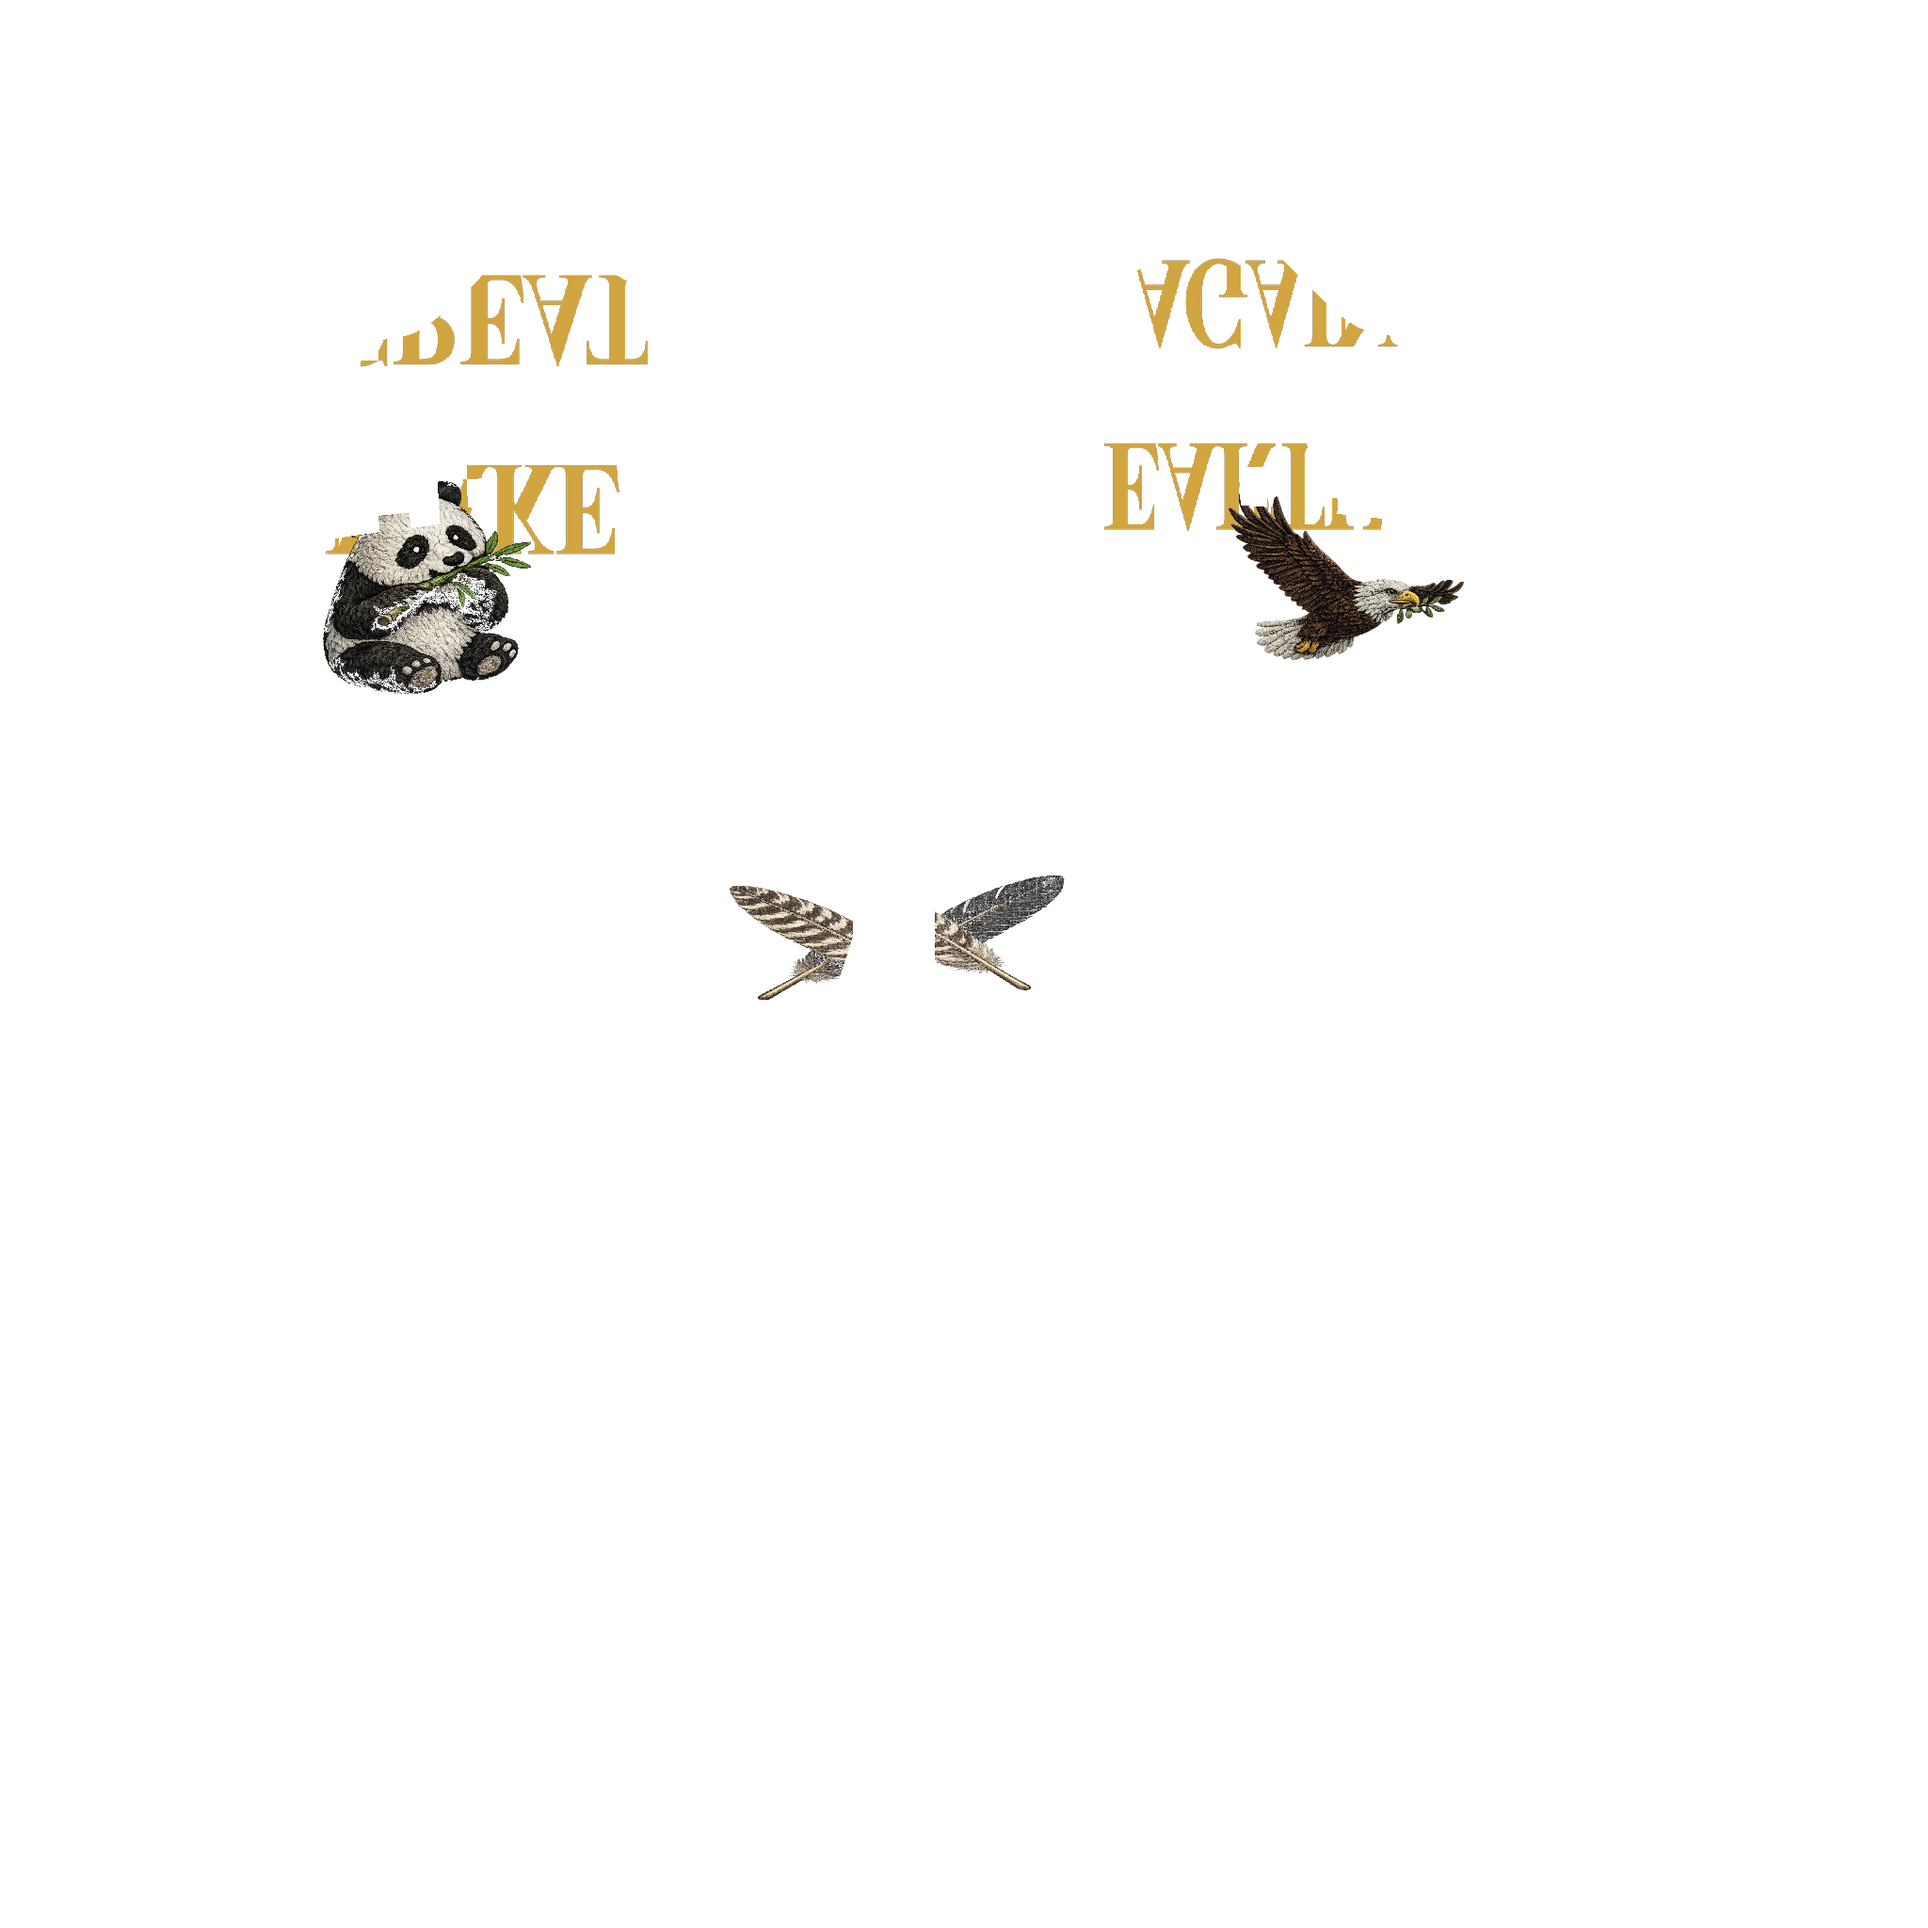
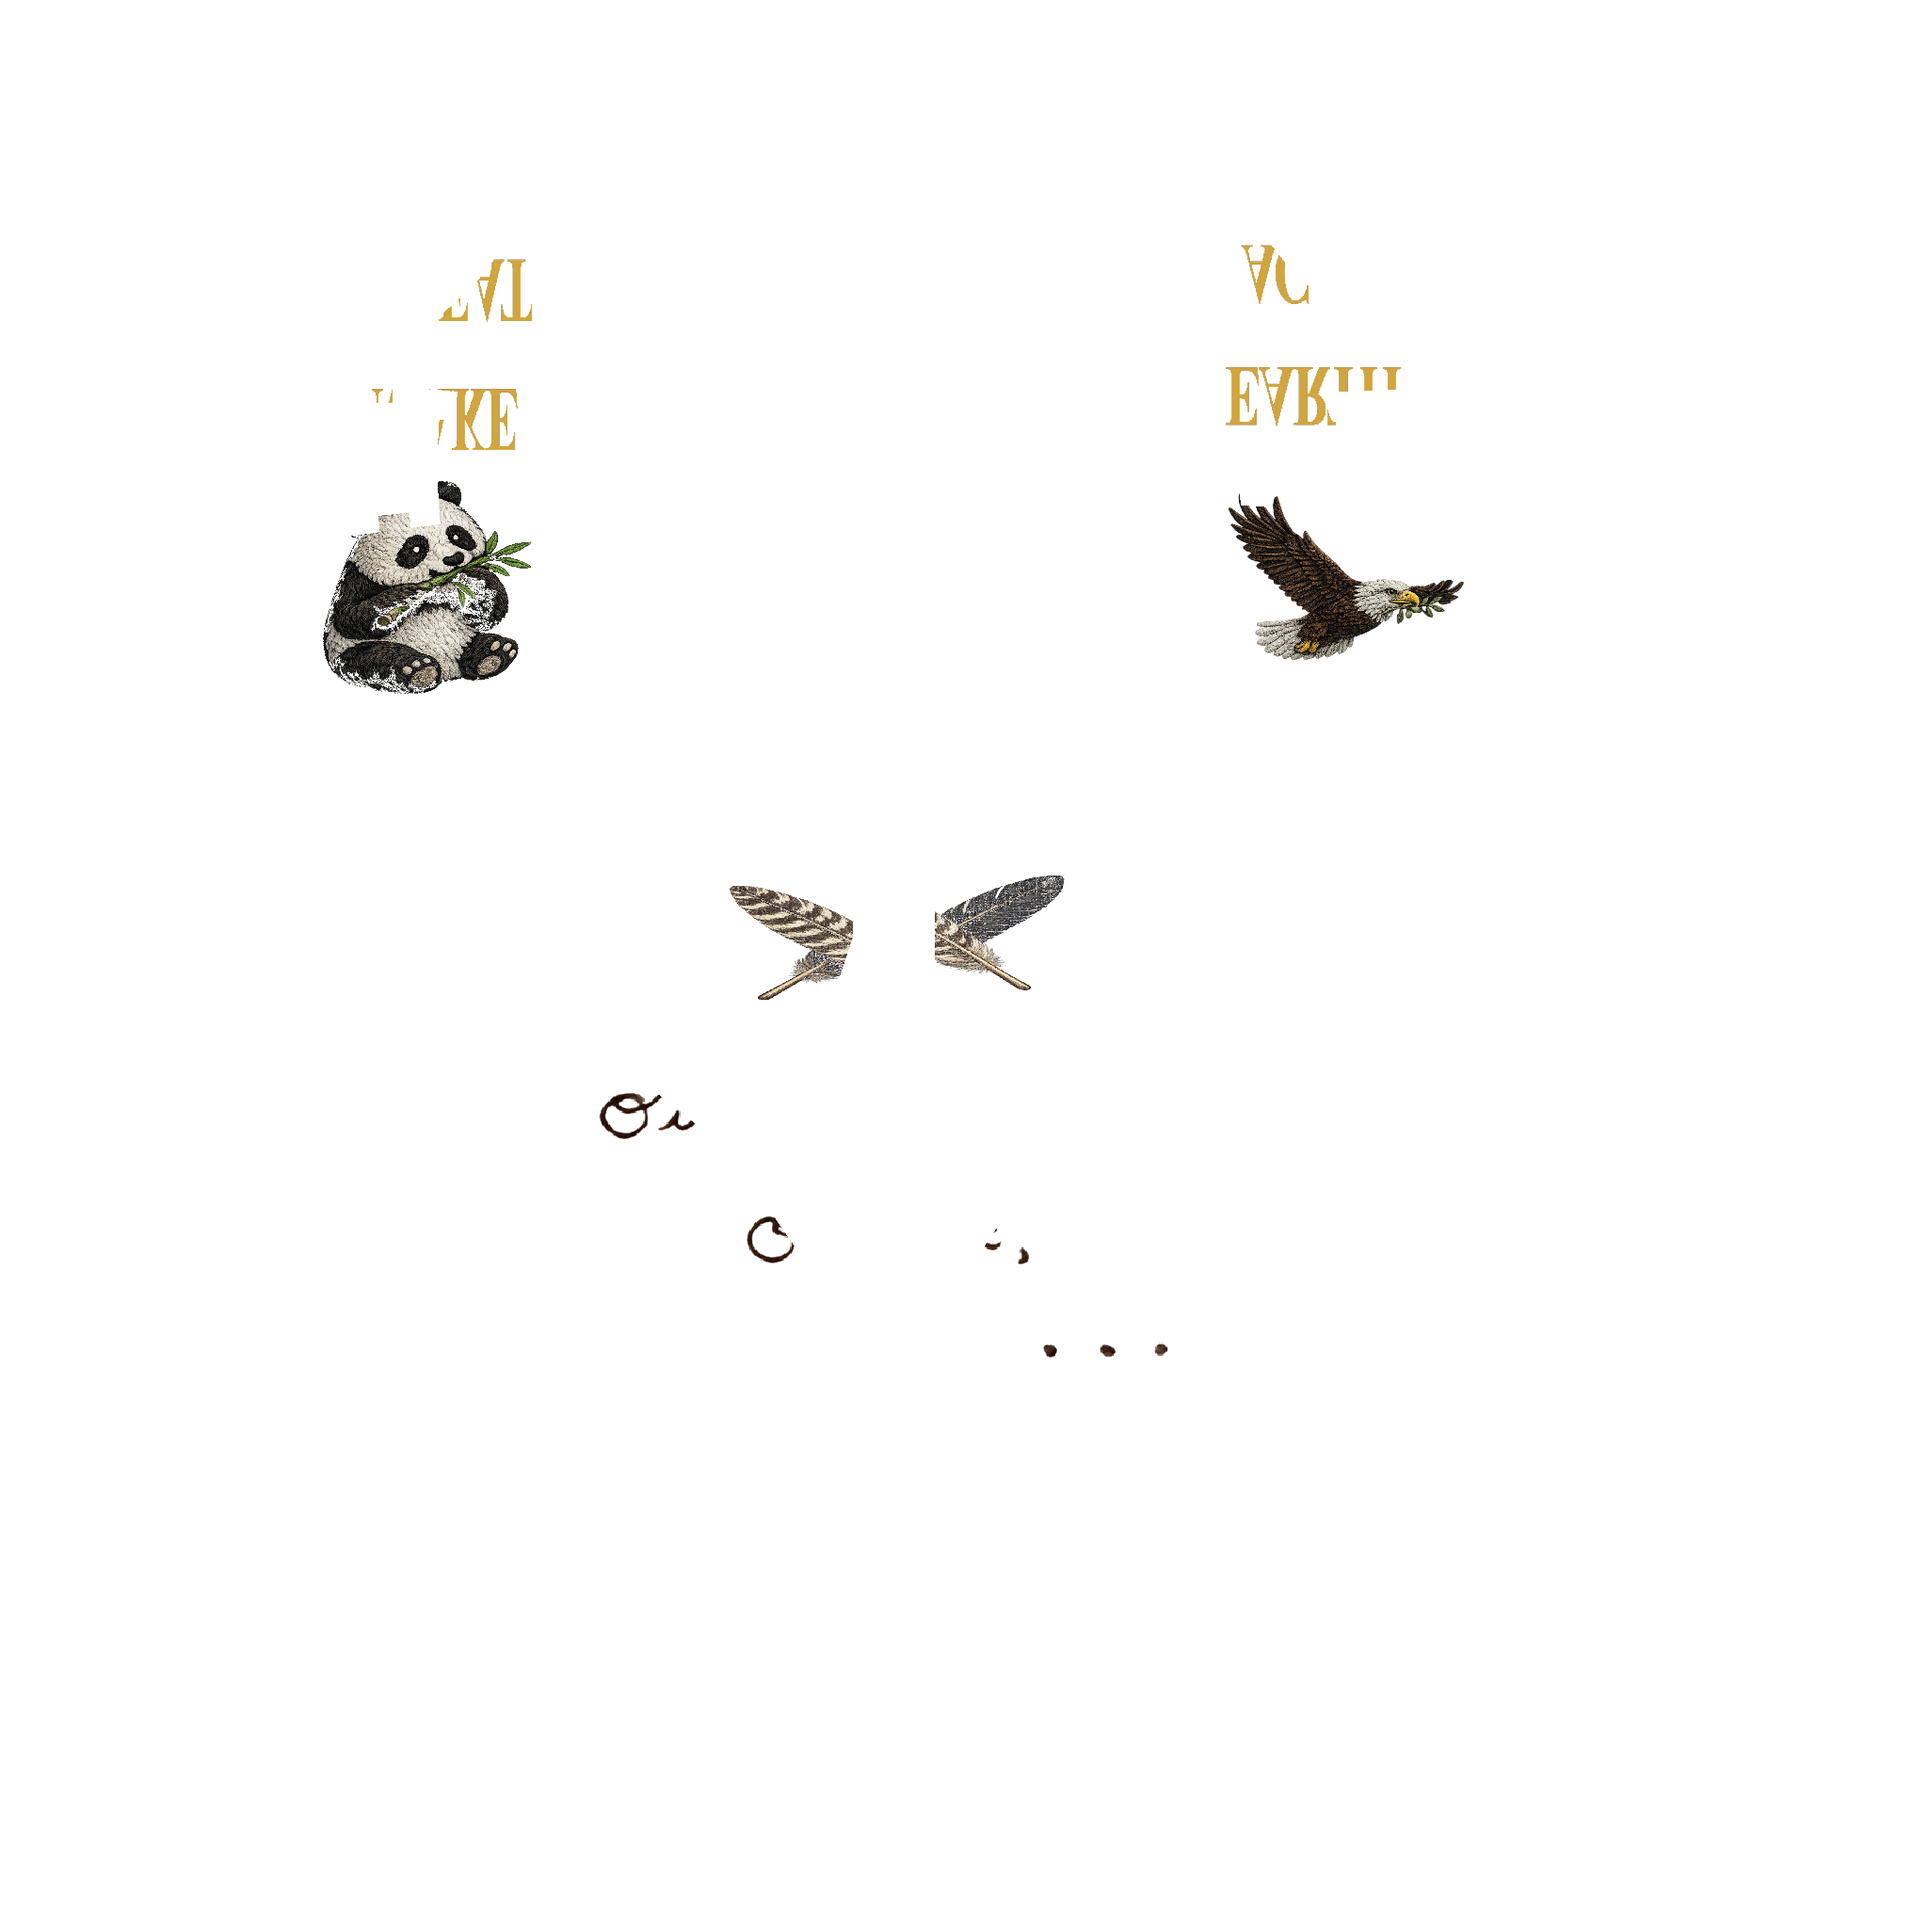
feat(hat): raised embroidery effect + inside label baked
- Atlas alpha 4-neighbour gradient drives a fragment-shader bump term so
  decal pixels render brighter and shaded like raised embroidery thread
- Tightened MEGA front-face UV filter (cy>3.0, z 0.5-3.0, |normal.y|>0.5)
  to stop letters bleeding onto cap-back via the panel UV unwrap
- Inside label ("Out, Out, ...") now baked onto the two inner panels at
  back-center, visible from inside the cap

diff --git a/src/components/HatModel.tsx b/src/components/HatModel.tsx
@@ -571,12 +571,28 @@ export default function HatModel({
             mat.color.set('#ffffff');
           } else if (isMainCap && !isBand && !useFabricTexture) {
             mat.map = atlasTex;
+            // Embroidery effect: where atlas alpha > 0, perturb surface normal so
+            // the decal appears RAISED. We sample neighbouring atlas alphas and
+            // build a screen-space normal-like offset, then add bumped lighting.
             mat.onBeforeCompile = (shader) => {
               shader.fragmentShader = shader.fragmentShader.replace(
                 '#include <map_fragment>',
                 `#ifdef USE_MAP
                   vec4 atlasSample = texture2D( map, vMapUv );
-                  diffuseColor.rgb = mix( diffuseColor.rgb, atlasSample.rgb, atlasSample.a );
+                  // Raised embroidery: sample 4 neighbours of the atlas alpha to
+                  // estimate a height gradient; use it to perturb shading.
+                  vec2 px = vec2( 1.0 / 2048.0 );
+                  float aL = texture2D( map, vMapUv + vec2(-px.x, 0.0) ).a;
+                  float aR = texture2D( map, vMapUv + vec2( px.x, 0.0) ).a;
+                  float aD = texture2D( map, vMapUv + vec2(0.0, -px.y) ).a;
+                  float aU = texture2D( map, vMapUv + vec2(0.0,  px.y) ).a;
+                  float dx = (aR - aL);
+                  float dy = (aU - aD);
+                  // Lighting from upper-left, slightly more pronounced where alpha is high
+                  float bump = clamp( -dx * 0.7 + dy * 0.7, -1.0, 1.0 );
+                  float raise = atlasSample.a * 0.35; // brighten the decal pixel
+                  vec3 decalRgb = atlasSample.rgb * (1.0 + bump * 0.6 + raise);
+                  diffuseColor.rgb = mix( diffuseColor.rgb, decalRgb, atlasSample.a );
                 #endif`,
               );
             };

diff --git a/scripts/bake_cap_decals.py b/scripts/bake_cap_decals.py
@@ -83,10 +83,13 @@ for i, p in enumerate(poly_meta):
     island_v_max[iid] = max(island_v_max.get(iid, 0.0), p['uv_max'][1])
 big = sorted(island_size.items(), key=lambda kv: kv[1], reverse=True)
 outer_iids = []
+inner_iids = []
 for iid, _ in big:
     if island_v_min[iid] > 0.4 and island_v_max[iid] > 0.7:
-        outer_iids.append(iid)
-    if len(outer_iids) >= 2: break
+        if len(outer_iids) < 2: outer_iids.append(iid)
+    elif island_v_max[iid] < 0.5:
+        if len(inner_iids) < 2: inner_iids.append(iid)
+    if len(outer_iids) >= 2 and len(inner_iids) >= 2: break
 
 # Determine which is left vs right by looking at 3D x-centroid
 def island_x_centroid(iid):
@@ -117,7 +120,8 @@ print(f'outer_left  UV bbox: U=[{bbox_L[0]:.4f}, {bbox_L[2]:.4f}] V=[{bbox_L[1]:
 print(f'outer_right UV bbox: U=[{bbox_R[0]:.4f}, {bbox_R[2]:.4f}] V=[{bbox_R[1]:.4f}, {bbox_R[3]:.4f}]')
 
 # Each panel's tris with UVs and 3D positions + surface normal
-tris_by_iid = {iid_left: [], iid_right: []}
+all_relevant_iids = set(outer_iids) | set(inner_iids)
+tris_by_iid = {iid: [] for iid in all_relevant_iids}
 for t in me.loop_triangles:
     iid = poly_island[t.polygon_index]
     if iid in tris_by_iid:
@@ -138,15 +142,27 @@ for t in me.loop_triangles:
         })
 print(f'tris: outer_left={len(tris_by_iid[iid_left])}, outer_right={len(tris_by_iid[iid_right])}')
 
+# Inner panels for the inside label
+iid_inner_left = None
+iid_inner_right = None
+if len(inner_iids) >= 2:
+    iid_inner_left = min(inner_iids, key=island_x_centroid)
+    iid_inner_right = max(inner_iids, key=island_x_centroid)
+    print(f'inner_left={iid_inner_left}, inner_right={iid_inner_right}')
+
+bbox_inner_L = panel_bbox(iid_inner_left) if iid_inner_left else None
+bbox_inner_R = panel_bbox(iid_inner_right) if iid_inner_right else None
+
 # Compute UV bbox of front-facing tris on each panel
 def front_face_uv_bbox(tris):
+    """UV bbox of physically-front cap face: centroid y > 3.0 (front strip),
+    z in [0.5, 3.0] (above brim, below upper dome), strong +y normal (both
+    winding orders handled via abs)."""
     us, vs = [], []
     for t in tris:
-        # Front face: tri centroid in y > +2.0 (most of the front-facing surface)
-        if t['cy'] < 2.0: continue
-        if t['cz'] < 0.4 or t['cz'] > 4.5: continue
-        # Surface normal must have +y component (not the apex top)
-        if abs(t['normal'].y) < 0.25: continue
+        if t['cy'] < 3.0: continue
+        if t['cz'] < 0.5 or t['cz'] > 3.0: continue
+        if abs(t['normal'].y) < 0.5: continue
         for uv in t['uvs']:
             us.append(uv.x); vs.append(uv.y)
     if not us: return None
@@ -167,6 +183,7 @@ dimg = {
     'eagle':    load_decal(f'{PUB}/eagle_decal.png'),
     'feathers': load_decal(f'{PUB}/feathers_decal.png'),
     'panda':    load_decal(f'{PUB}/panda_decal.png'),
+    'inside':   load_decal(f'{PUB}/inside_label.png'),
 }
 
 def sample(img, sx, sy):
@@ -344,6 +361,21 @@ hit_log['feathers_R'] = paint_decal_on_panel(
     u_lo_frac=0.05, u_hi_frac=0.50, v_lo_frac=0.00, v_hi_frac=0.30,
     decal_img=dimg['feathers'], ds_lo=0.5, ds_hi=1.0, dt_lo=0.0, dt_hi=1.0,
     flip_v=False)
+
+# INSIDE LABEL ("Out, Out, ...") on inner panels at back-center.
+# Inner panel V range [0.008, 0.487]; paint near top (back of cap interior)
+# split at the cap-center seam.
+if bbox_inner_L and bbox_inner_R:
+    hit_log['inside_L'] = paint_decal_on_panel(
+        tris_by_iid[iid_inner_left], bbox_inner_L,
+        u_lo_frac=0.50, u_hi_frac=0.95, v_lo_frac=0.55, v_hi_frac=0.95,
+        decal_img=dimg['inside'], ds_lo=0.0, ds_hi=0.5, dt_lo=0.0, dt_hi=1.0,
+        flip_v=False)
+    hit_log['inside_R'] = paint_decal_on_panel(
+        tris_by_iid[iid_inner_right], bbox_inner_R,
+        u_lo_frac=0.05, u_hi_frac=0.50, v_lo_frac=0.55, v_hi_frac=0.95,
+        decal_img=dimg['inside'], ds_lo=0.5, ds_hi=1.0, dt_lo=0.0, dt_hi=1.0,
+        flip_v=False)
 
 print(f'\nbake done in {time.time()-t0:.1f}s')
 for k, v in hit_log.items():
